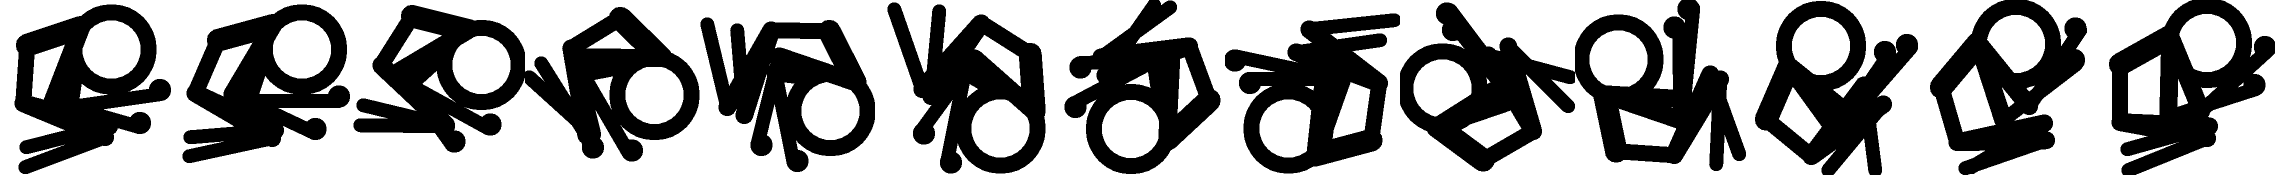
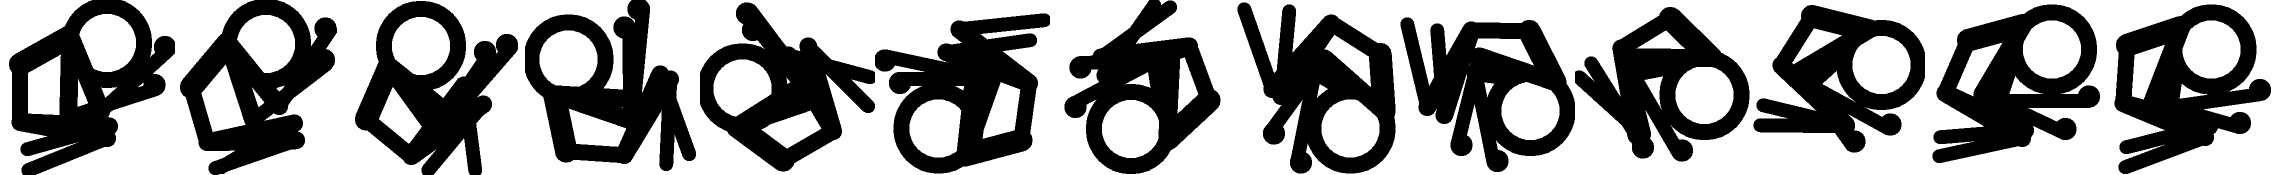
jumping forward animation + jumping texture 1 frame bugfix

diff --git a/MK_SFML_Game/Player.cpp b/MK_SFML_Game/Player.cpp
@@ -306,8 +306,8 @@ void Player::updateMovement() {
 		this->xAxisMomentum = 0;
 		if (this->position == Position::AIRBORNE) {
 			this->position = Position::STANDING;
-			this->sprite.setTexture(*(this->texture), true);
-			this->initSprite(this->textureRect);
+			/*this->sprite.setTexture(*(this->texture), true);
+			this->initSprite(this->textureRect);*/
 			this->setPosition(this->getPosition().x, 425);
 		}
 	}
@@ -374,19 +374,24 @@ void Player::updateAnimation() {
 			//continue animate jumping forward
 			if (this->animator != nullptr && this->animator->getCurrAnimationType() == AnimationType::JUMPING) {
 				this->animator->update();
-				this->initSprite(*this->playerTextures.find("jumping_f")->second, this->textureRect);
+				this->initSprite(*this->playerTextures.find(this->lockedAnimation)->second, this->textureRect);
 		}
 		else {
 			//start animating jumping
-			if (this->movementMatrix[0]) {
+			if (this->movementMatrix[0] || this->movementMatrix[1]) {
 				delete this->animator;
 				delete this->textureRect;
 				this->textureRect = new sf::IntRect(0, 0, 175, 175);
 				this->animator = new Animator(this->textureRect, 2275, 175, AnimationType::JUMPING, true, false, 175);
+				if (this->movementMatrix[0]) {
+					this->lockedAnimation = "jumping_f";
+				}
+				else {
+					this->lockedAnimation = "jumping_b";
+				}
 			}
-			
 		}
-	}
+	} 
 	else if (this->state == State::ATTACKING) {
 		if (this->animator != nullptr && this->animator->getCurrAnimationType() == AnimationType::ATTACKING) {
 			//continue animate attacking

diff --git a/MK_SFML_Game/Player.h b/MK_SFML_Game/Player.h
@@ -98,4 +98,5 @@ private:
 	bool wasAttackBlocked(const AttackMove& hitBy);
 	
 	std::string charName;
+	std::string lockedAnimation;
 };
